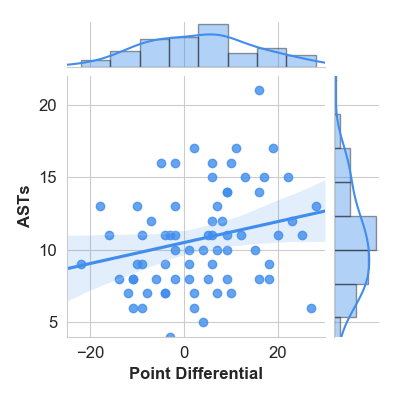
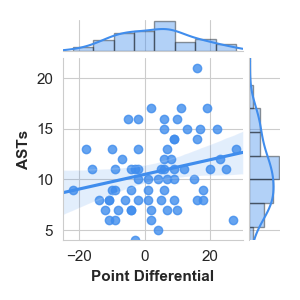
added subplots

Changed region(s): [[0.03, 0.06, 0.96, 0.96]]

diff --git a/Russ/russ_plotty.py b/Russ/russ_plotty.py
@@ -6,10 +6,10 @@ import seaborn as sns
 df = pd.read_csv(r'C:\Users\wilso\Desktop\NBA_Analysis\Russ\data\russ18_19.csv')
 
 sns.set_style('whitegrid')
-plt.rcParams.update({'font.size': 12})
+plt.rcParams.update({'font.size': 11})
 
 #3PA vs. Point Diff Figure
-x = sns.jointplot(x=df['Unnamed: 6'], y=df['3PA'], kind='reg', xlim=(-30,30), ylim=(0,15), height = 4, 
+x = sns.jointplot(x=df['Unnamed: 6'], y=df['3PA'], kind='reg', xlim=(-30,30), ylim=(0,15), height = 3, 
                 color="#ef6400", marginal_kws={'hist_kws': {'edgecolor': "black"}})
 x.ax_joint.set_xlabel('Point Differential', fontweight='bold')
 x.ax_joint.set_ylabel('3PA', fontweight='bold')
@@ -17,9 +17,37 @@ x.ax_joint.set_ylabel('3PA', fontweight='bold')
 plt.savefig(fname=r'C:\Users\wilso\Desktop\NBA_Analysis\Russ\figs\3pa_pointdiff')
 
 #AST vs. Point Diff Figure
-x = sns.jointplot(x=df['Unnamed: 6'], y=df['AST'], kind='reg', xlim=(-25,30), ylim=(4,22), height = 4, 
+x = sns.jointplot(x=df['Unnamed: 6'], y=df['AST'], kind='reg', xlim=(-25,30), ylim=(4,22), height = 3, 
                 color="#408ded", marginal_kws={'hist_kws': {'edgecolor': "black"}})
 x.ax_joint.set_xlabel('Point Differential', fontweight='bold')
 x.ax_joint.set_ylabel('ASTs', fontweight='bold')
 
 plt.savefig(fname=r'C:\Users\wilso\Desktop\NBA_Analysis\Russ\figs\ast_pointdiff')
+
+#AST and 3PA subplots
+df = pd.read_csv(r'C:\Users\wilso\Desktop\NBA_Analysis\MVP_Race\data\Player-PerGame.csv',index_col=0)
+df = df[df['MP']>15]
+df['rw'] = df.Player == 'Russell Westbrook'
+rw = df[df.rw==True]
+league_players = df[df.rw==False]
+players_2 = league_players[league_players['ThreePA']>=5]
+
+fig, axes = plt.subplots(nrows=1, ncols=2, dpi=100)
+plt.rcParams.update({'font.size': 11})
+
+axes[0].scatter(league_players.MP, league_players.AST, c=sns.xkcd_palette(['black']), label='League', alpha = .8)
+axes[0].scatter(rw.MP, rw.AST, c=sns.xkcd_palette(['sky blue']), label='Westbrook')
+axes[0].set_title('Leads the League in AST')
+axes[0].set_xlabel('Minutes Played')
+axes[0].set_ylabel('AST Per Game')
+axes[0].legend(loc=2,frameon=True)
+axes[0].grid()
+axes[1].scatter(league_players.ThreePA, league_players.ThreePPer, c=sns.xkcd_palette(['black']), alpha = .8)
+axes[1].scatter(rw.ThreePA, rw.ThreePPer, c=sns.xkcd_palette(['sky blue']))
+axes[1].set_title('Poor Volume 3-Point Shooter')
+axes[1].set_xlabel('3PA')
+axes[1].set_ylabel('3-Point%')
+axes[1].grid()
+fig.tight_layout()
+
+plt.savefig(fname=r'C:\Users\wilso\Desktop\NBA_Analysis\Russ\figs\russ_subplot')
